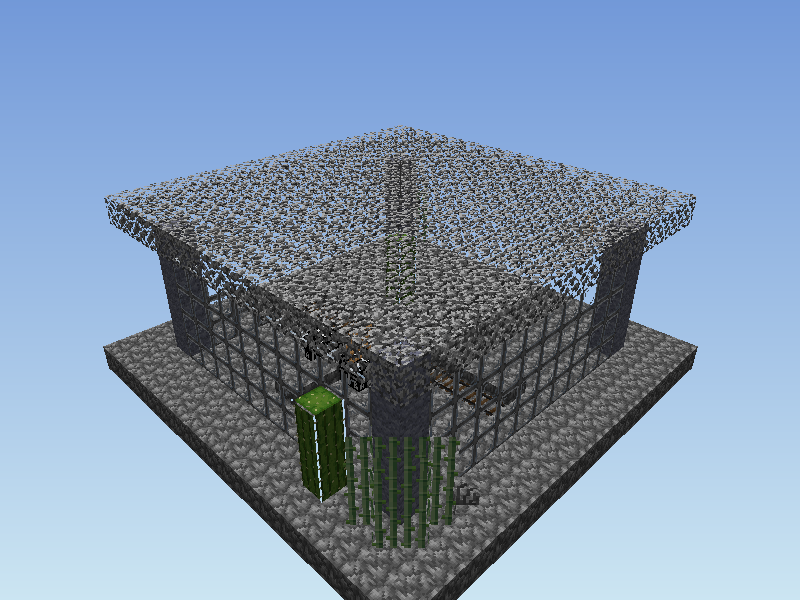
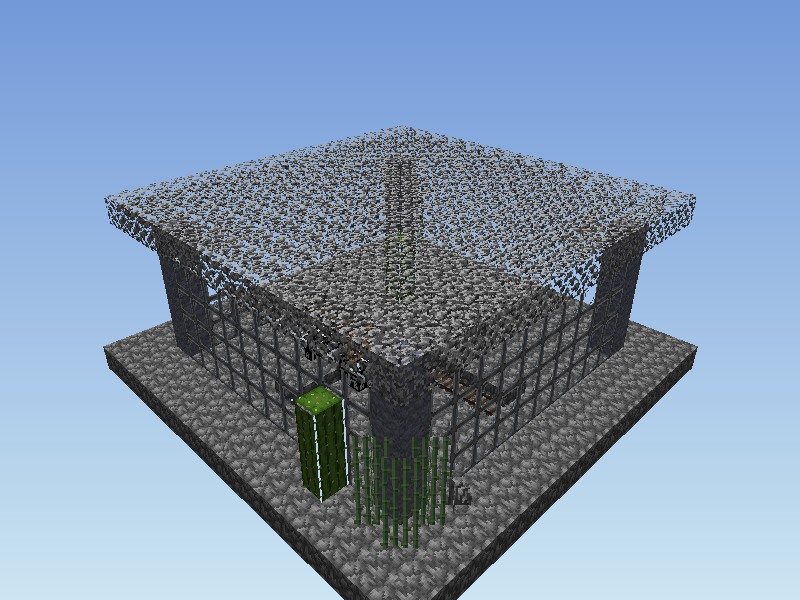
Fix normalization of direction of diagonal faces.

Changed region(s): [[0.4062, 0.72, 0.5938, 0.93], [0.2812, 0.39, 0.3125, 0.42]]

diff --git a/src/face.rs b/src/face.rs
@@ -160,13 +160,14 @@ impl DiagonalFace {
         self as u8 as usize
     }
 
-    /// Returns the horizontal direction vector for this diagonal (in the XZ
-    /// plane). The vector is **not** normalized — its components are ±1.
+    /// Returns the normalized horizontal direction vector for this diagonal
+    /// (in the XZ plane).
     #[inline]
     pub fn direction(self) -> Vec3 {
+        let s = std::f32::consts::FRAC_1_SQRT_2;
         match self {
-            DiagonalFace::A => Vec3::new(1.0, 0.0, 1.0),
-            DiagonalFace::B => Vec3::new(-1.0, 0.0, 1.0),
+            DiagonalFace::A => Vec3::new(s, 0.0, s),
+            DiagonalFace::B => Vec3::new(-s, 0.0, s),
         }
     }
 }
